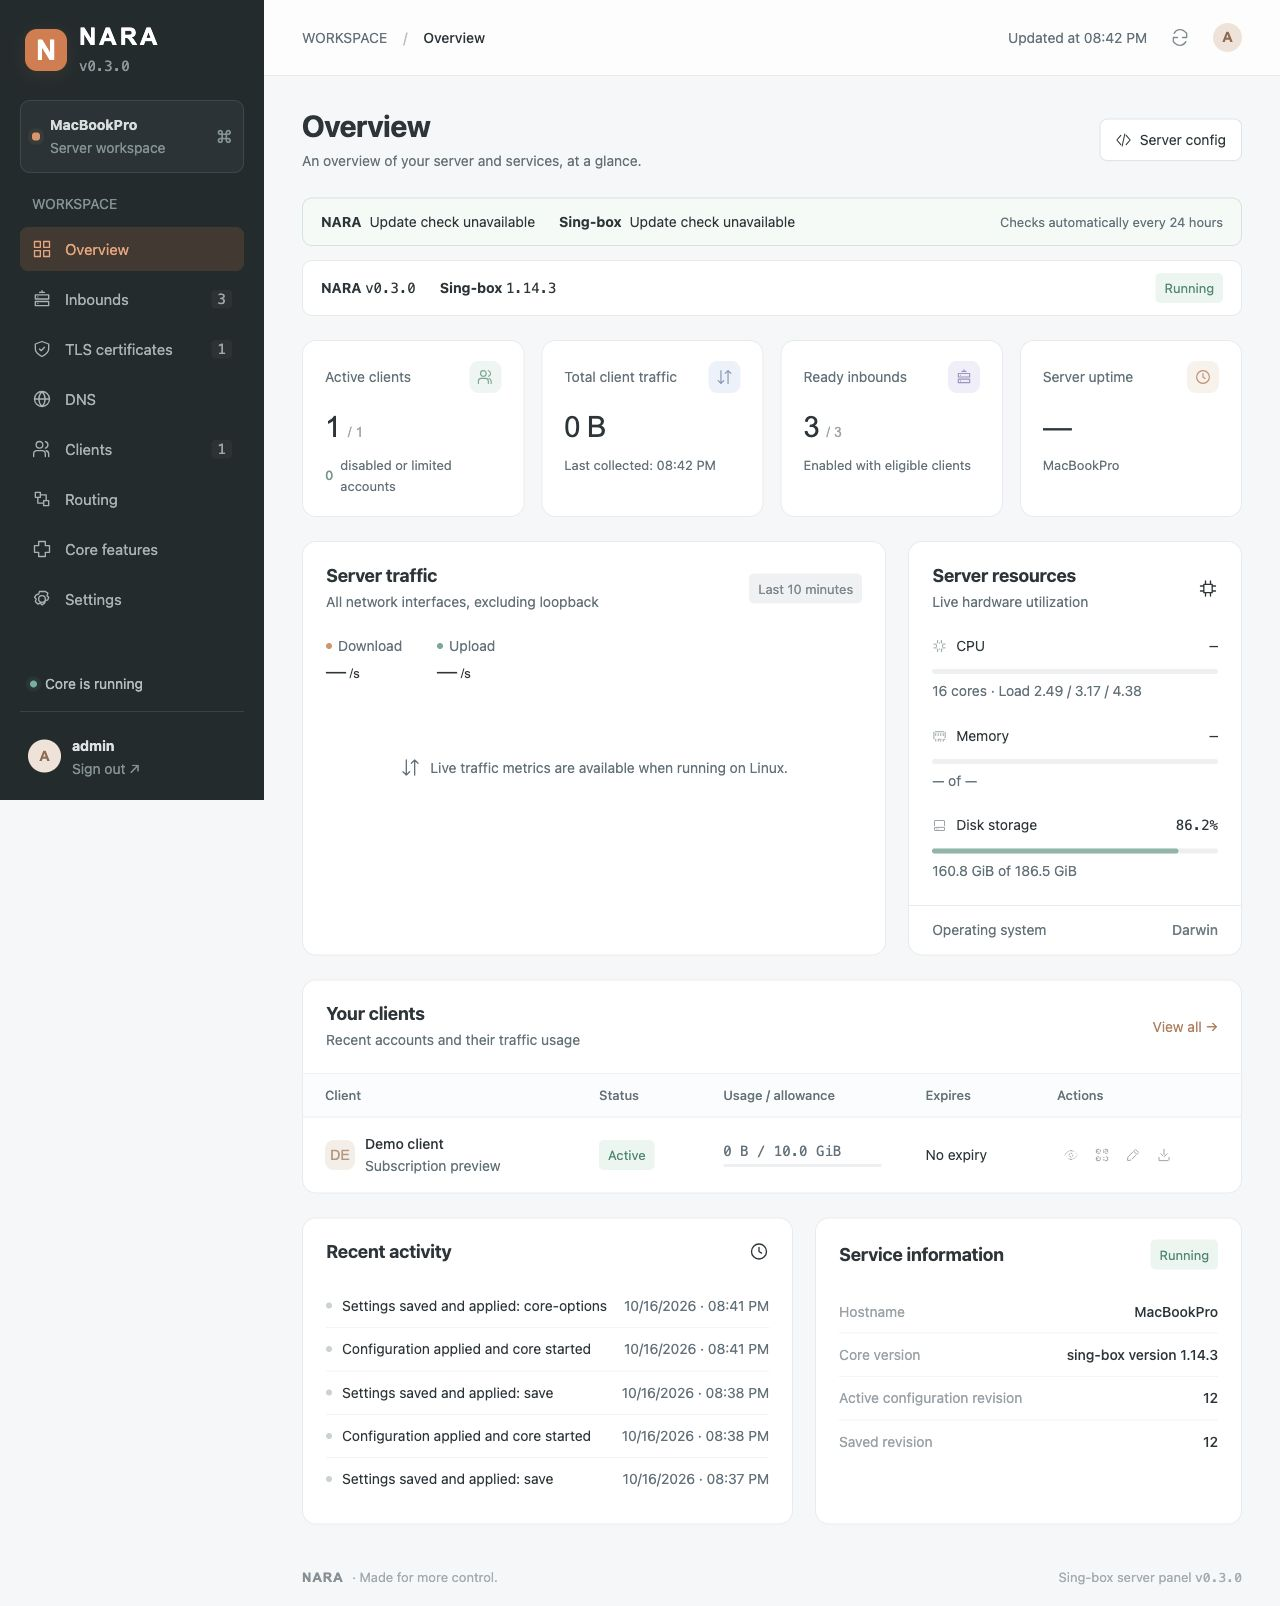
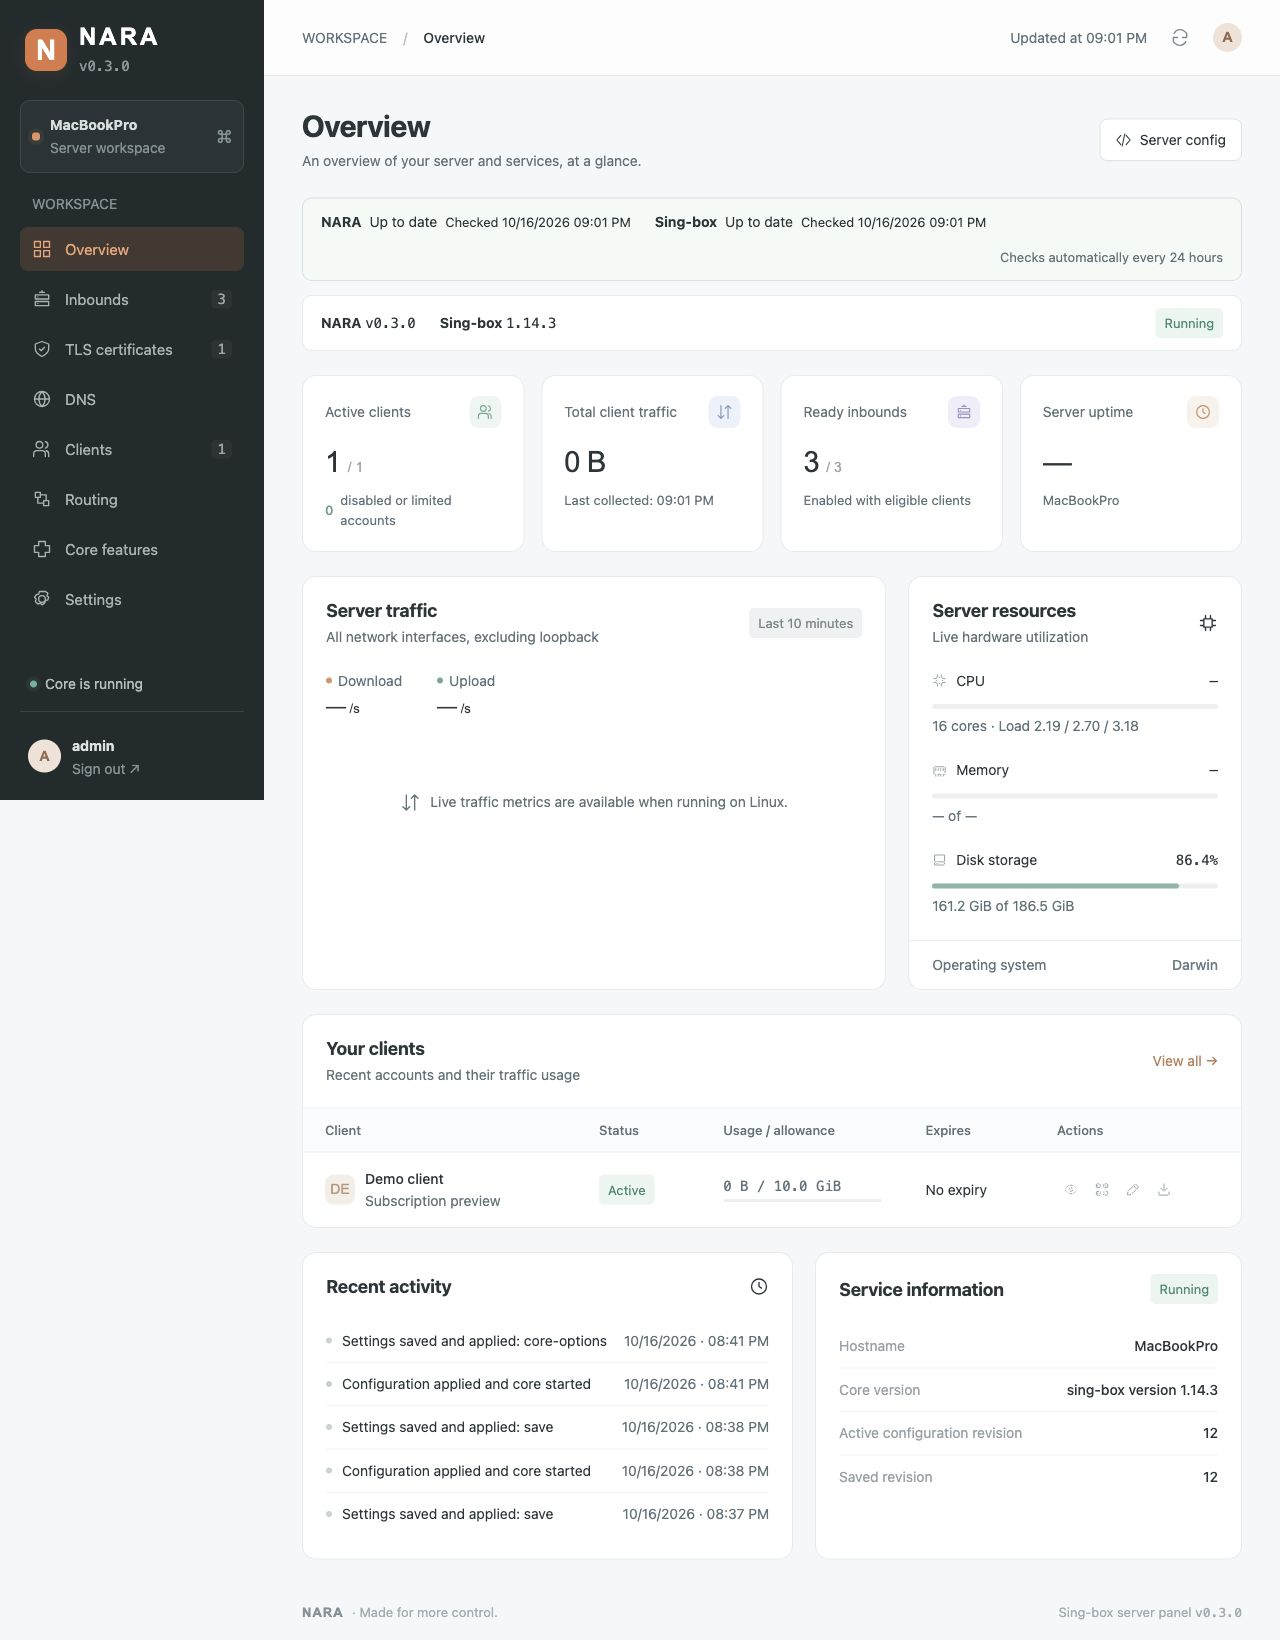
Record published version checks and final Overview preview

diff --git a/VERIFICATION.md b/VERIFICATION.md
@@ -176,6 +176,11 @@ inspection at **390 × 844** showed a **390 px** document, **352 px** dialog and
 only the demonstration store. The compact version/update strips replace the hero,
 and the logo shows the full panel version.
 
+After publication, a fresh live check successfully read the public panel manifest
+(`0.3.0`) and official stable core release (`1.14.3`). The Overview displayed both
+as up to date, and its browser console contained no warnings or errors. The saved
+desktop screenshot includes these real check results.
+
 The full standard-capability Darwin core was built and exercised locally. A Linux
 amd64 core including Naive outbound/purego was cross-compiled successfully. The
 matching pinned `libcronet.so` and license are installed beside the Linux binary;
